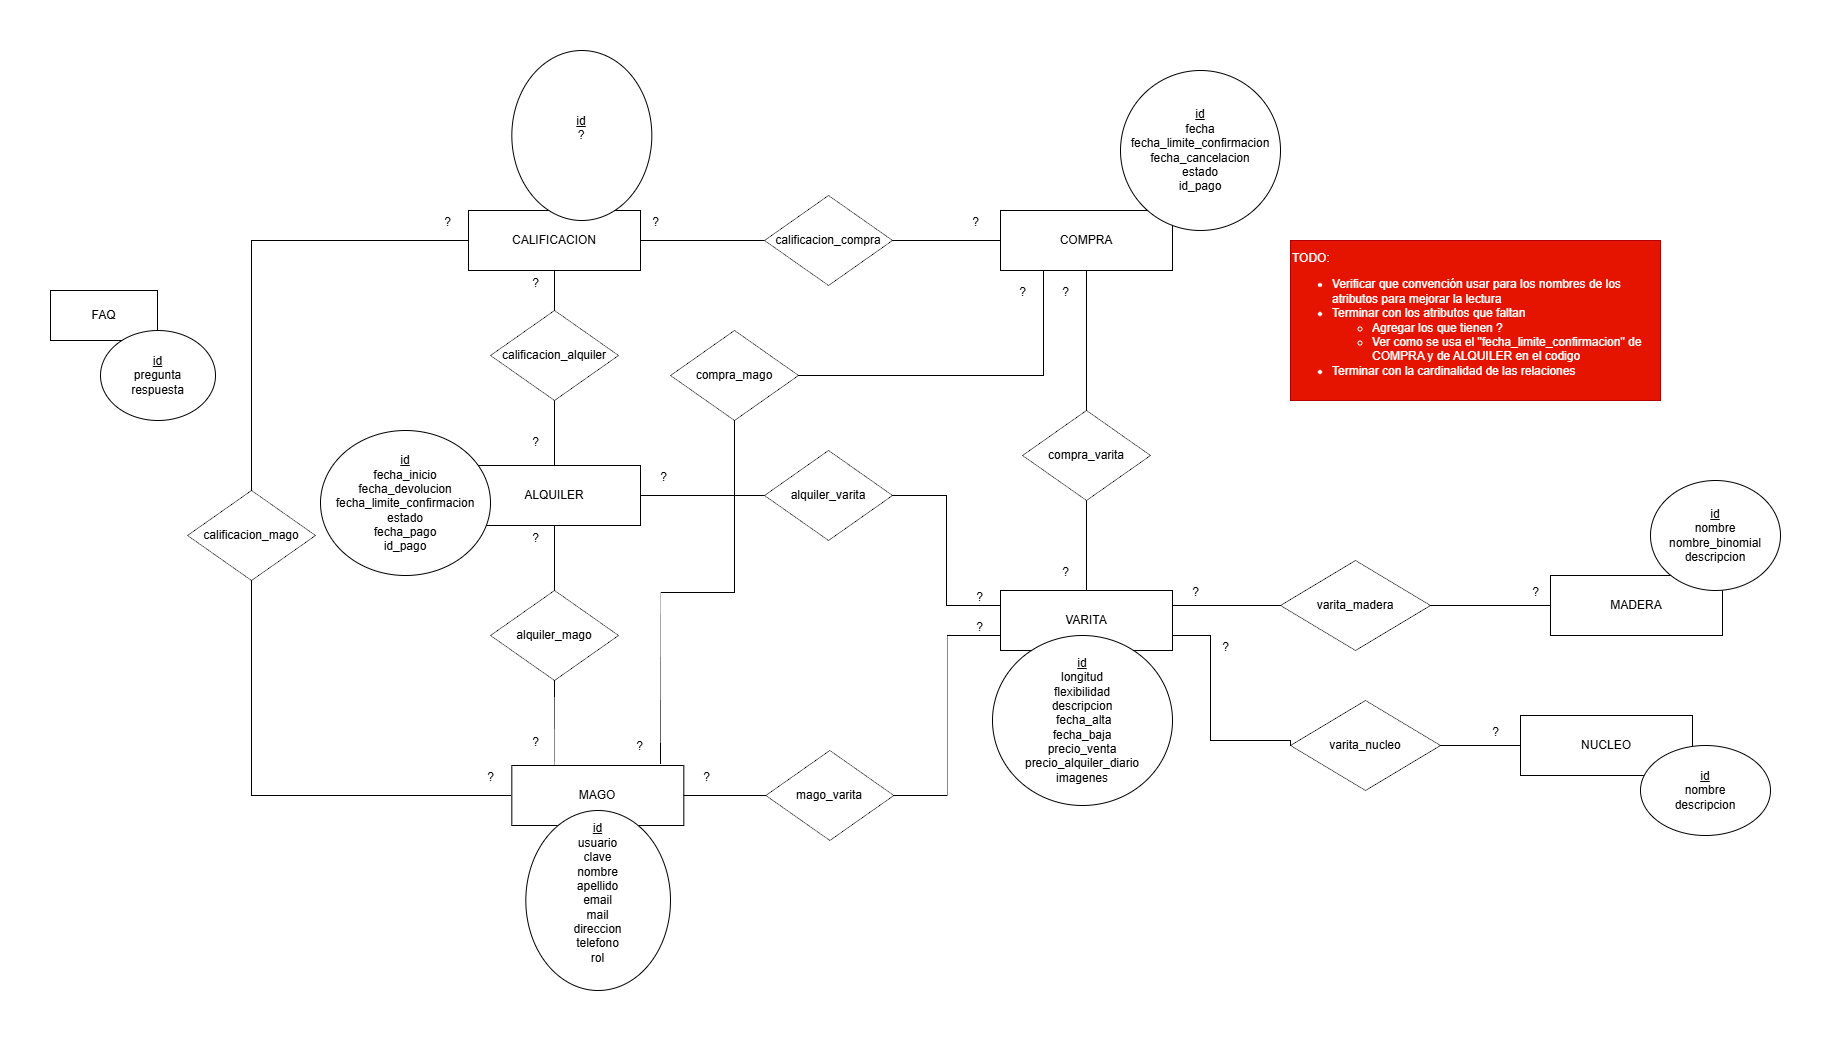
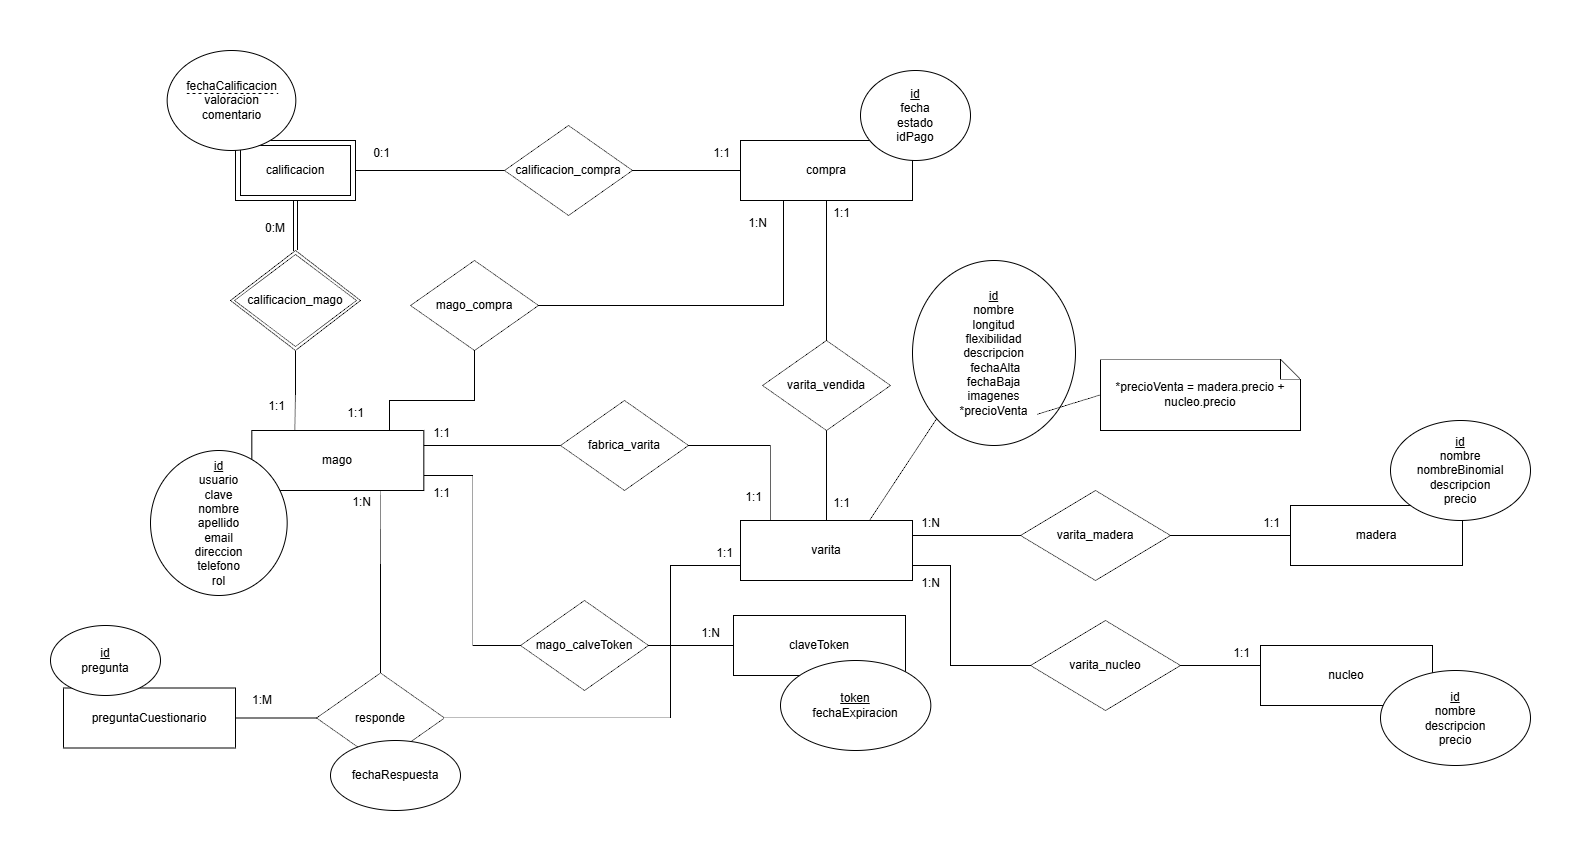
Finalizado con diagrama

diff --git a/docs/proposal.md b/docs/proposal.md
@@ -18,8 +18,8 @@
 
 
 ### Modelo
-[Mermaid](https://mermaid.js.org)
-https://drive.google.com/file/d/1aHBuIdu2SuQJKwL8StDEmREH56euT88r/view?usp=sharing
+![Diagrama DER](./DER%20Inicial.png)
+Ver diagrama en [Draw.io](https://drive.google.com/file/d/1aHBuIdu2SuQJKwL8StDEmREH56euT88r/view?usp=sharing)
 
 **Nota:** la division de las varitas entre *madera* y *núcleo* es dada por la [wiki de Harry Potter](https://harrypotter.fandom.com/es/wiki/Varita)
 
@@ -30,7 +30,7 @@ Regularidad:
 |Req|Detalle|
 |:-|:-|
 |CRUD simple|1. CRUD Mago<br>2. CRUD Varita<br>3. CRUD Compra<br>4. CRUD Calificación|
-|CRUD dependiente |1. CRUD Compra {depende de} CRUD Mago<br>2. CRUD Calificación {depende de} CRUD Varita|
+|CRUD dependiente |1. CRUD Compra {depende de} CRUD Mago<br>2. CRUD Calificación {depende de} CRUD Compra|
 |Listado<br>+<br>Detalle | 1. Listado de varitas filtrado por madera, núcleo y precio. Muestra madera, núcleo, descripción y precio => detalle muestra longitud y flexibilidadcripción<br> 2. Listado de respuesta de cuestionario donde se muestra fecha de respuesta y nombre, longitud y flexibilidad, madera y nucleo de varita, que redirige a la varita al clickear|
 |CUU/Epic|1. Comprar una varita<br>2. Calificar varita en base a compra|
 
